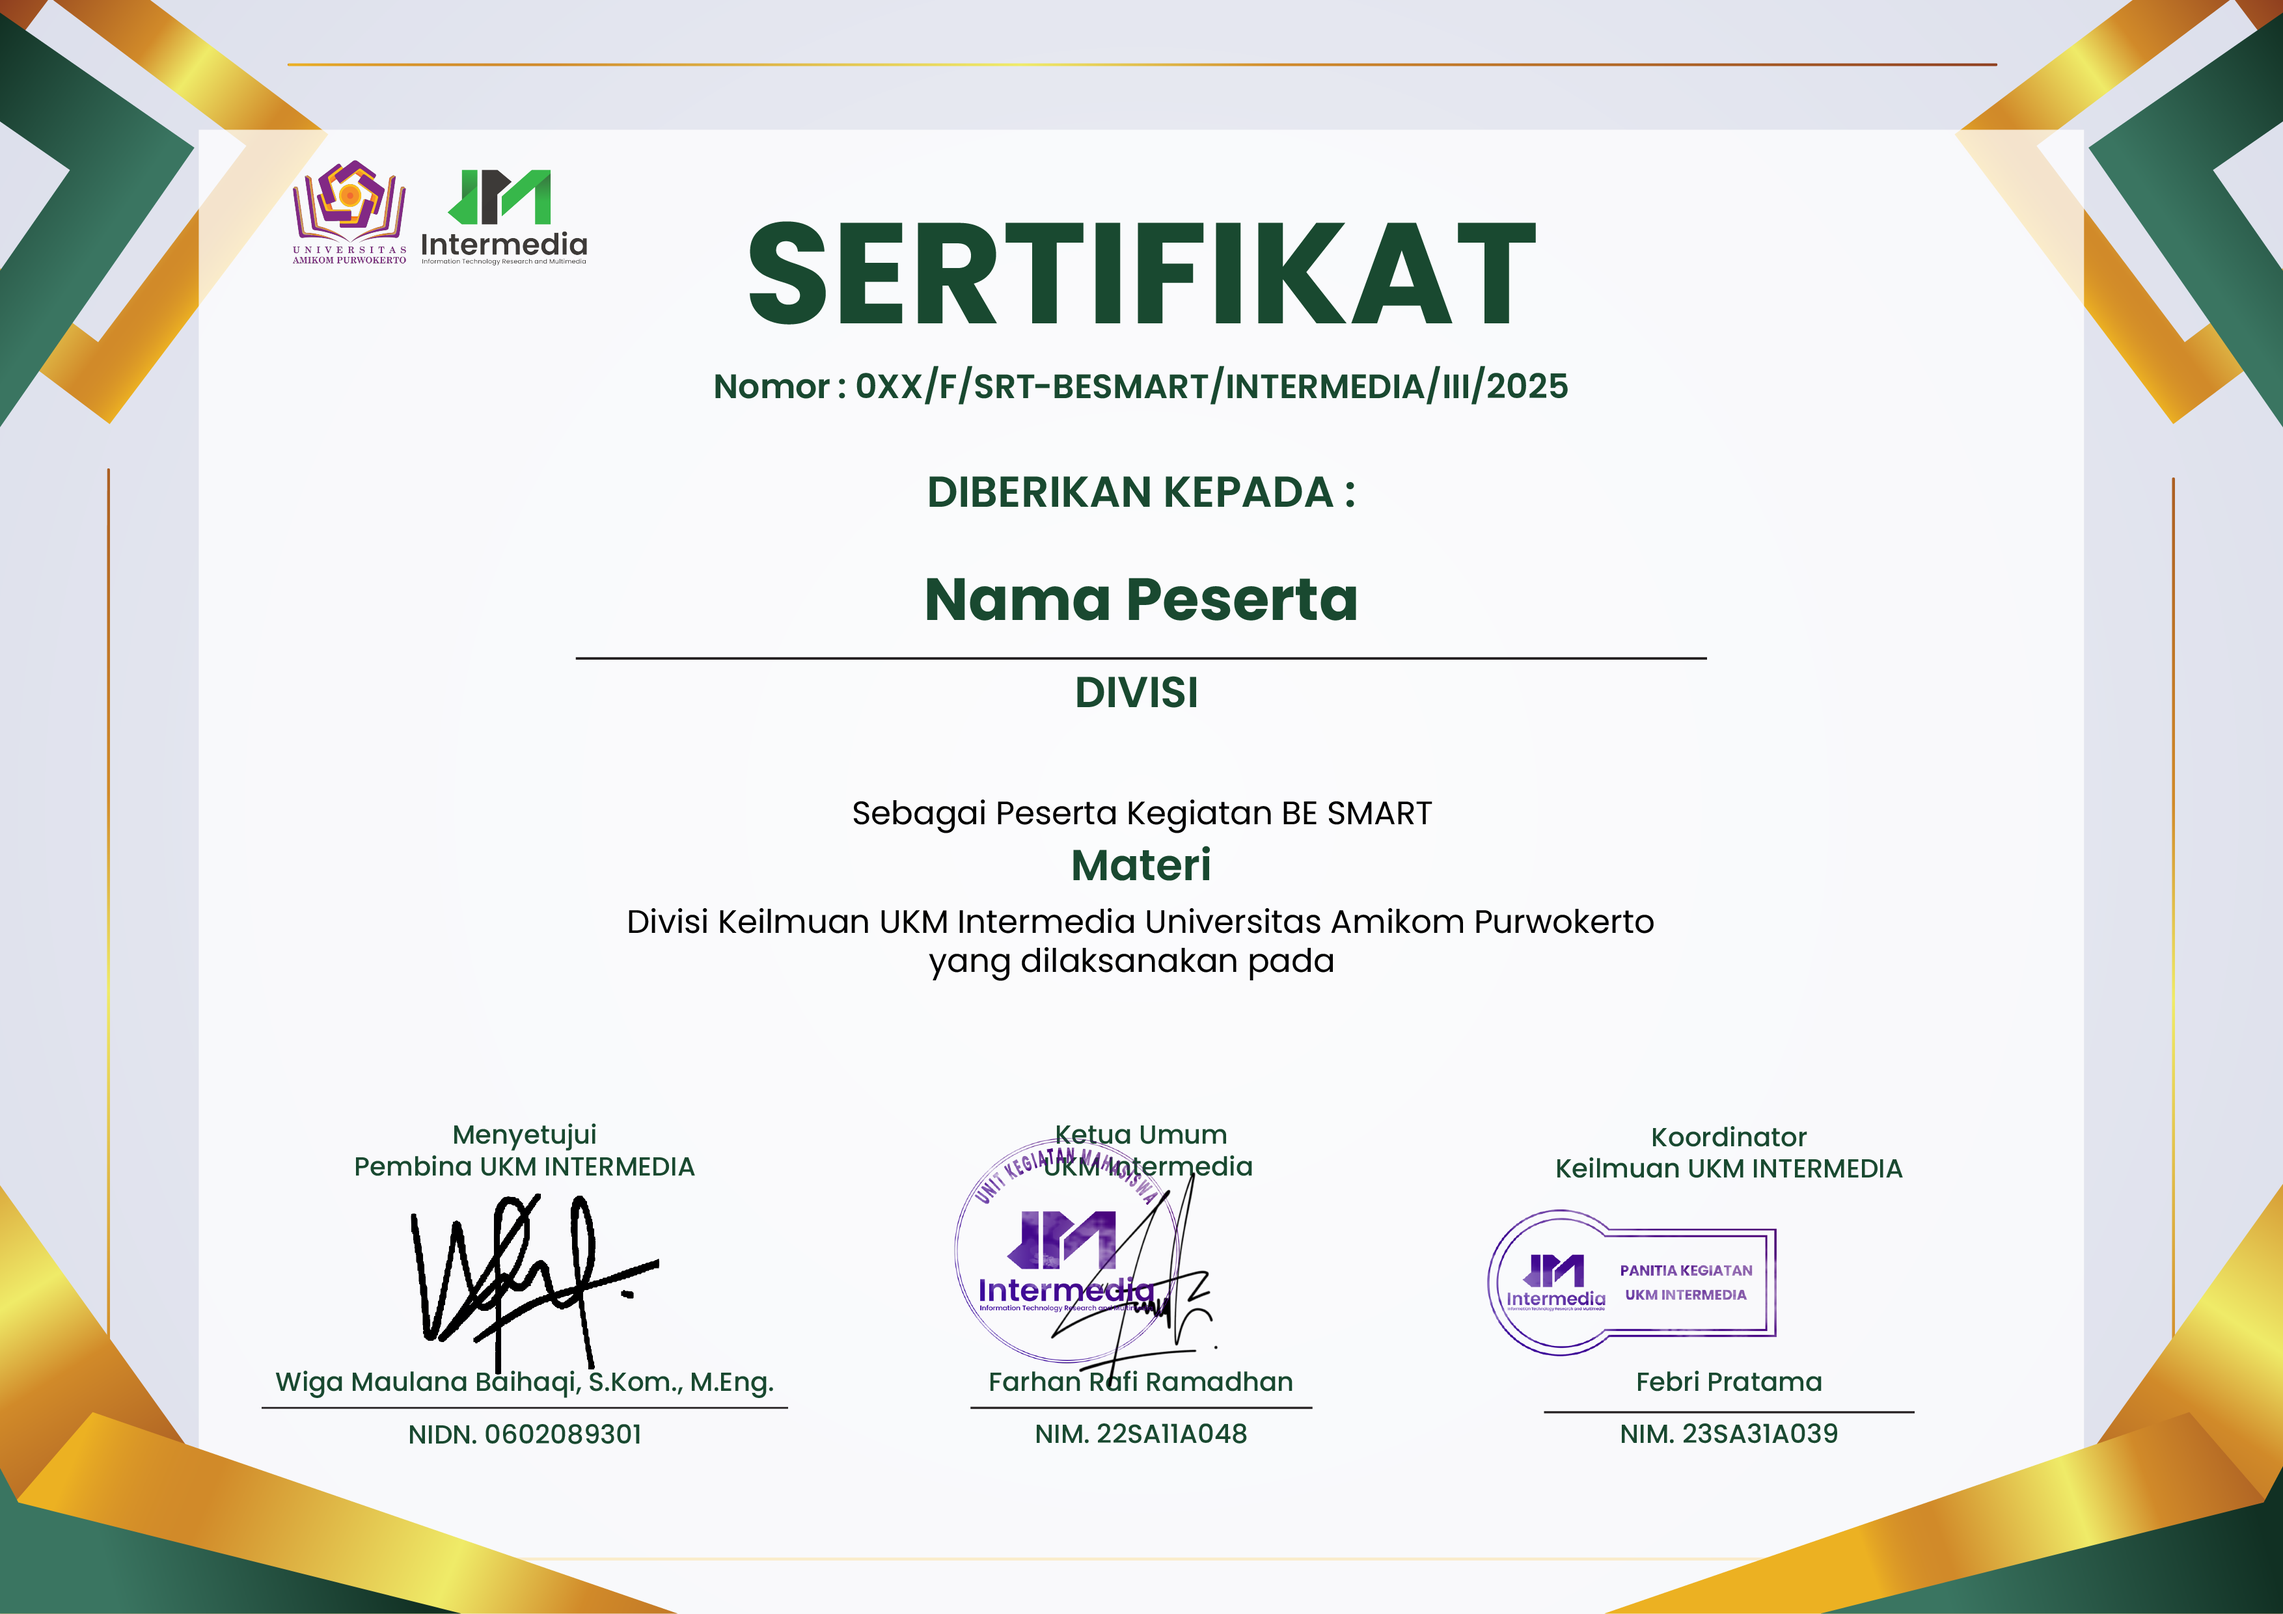
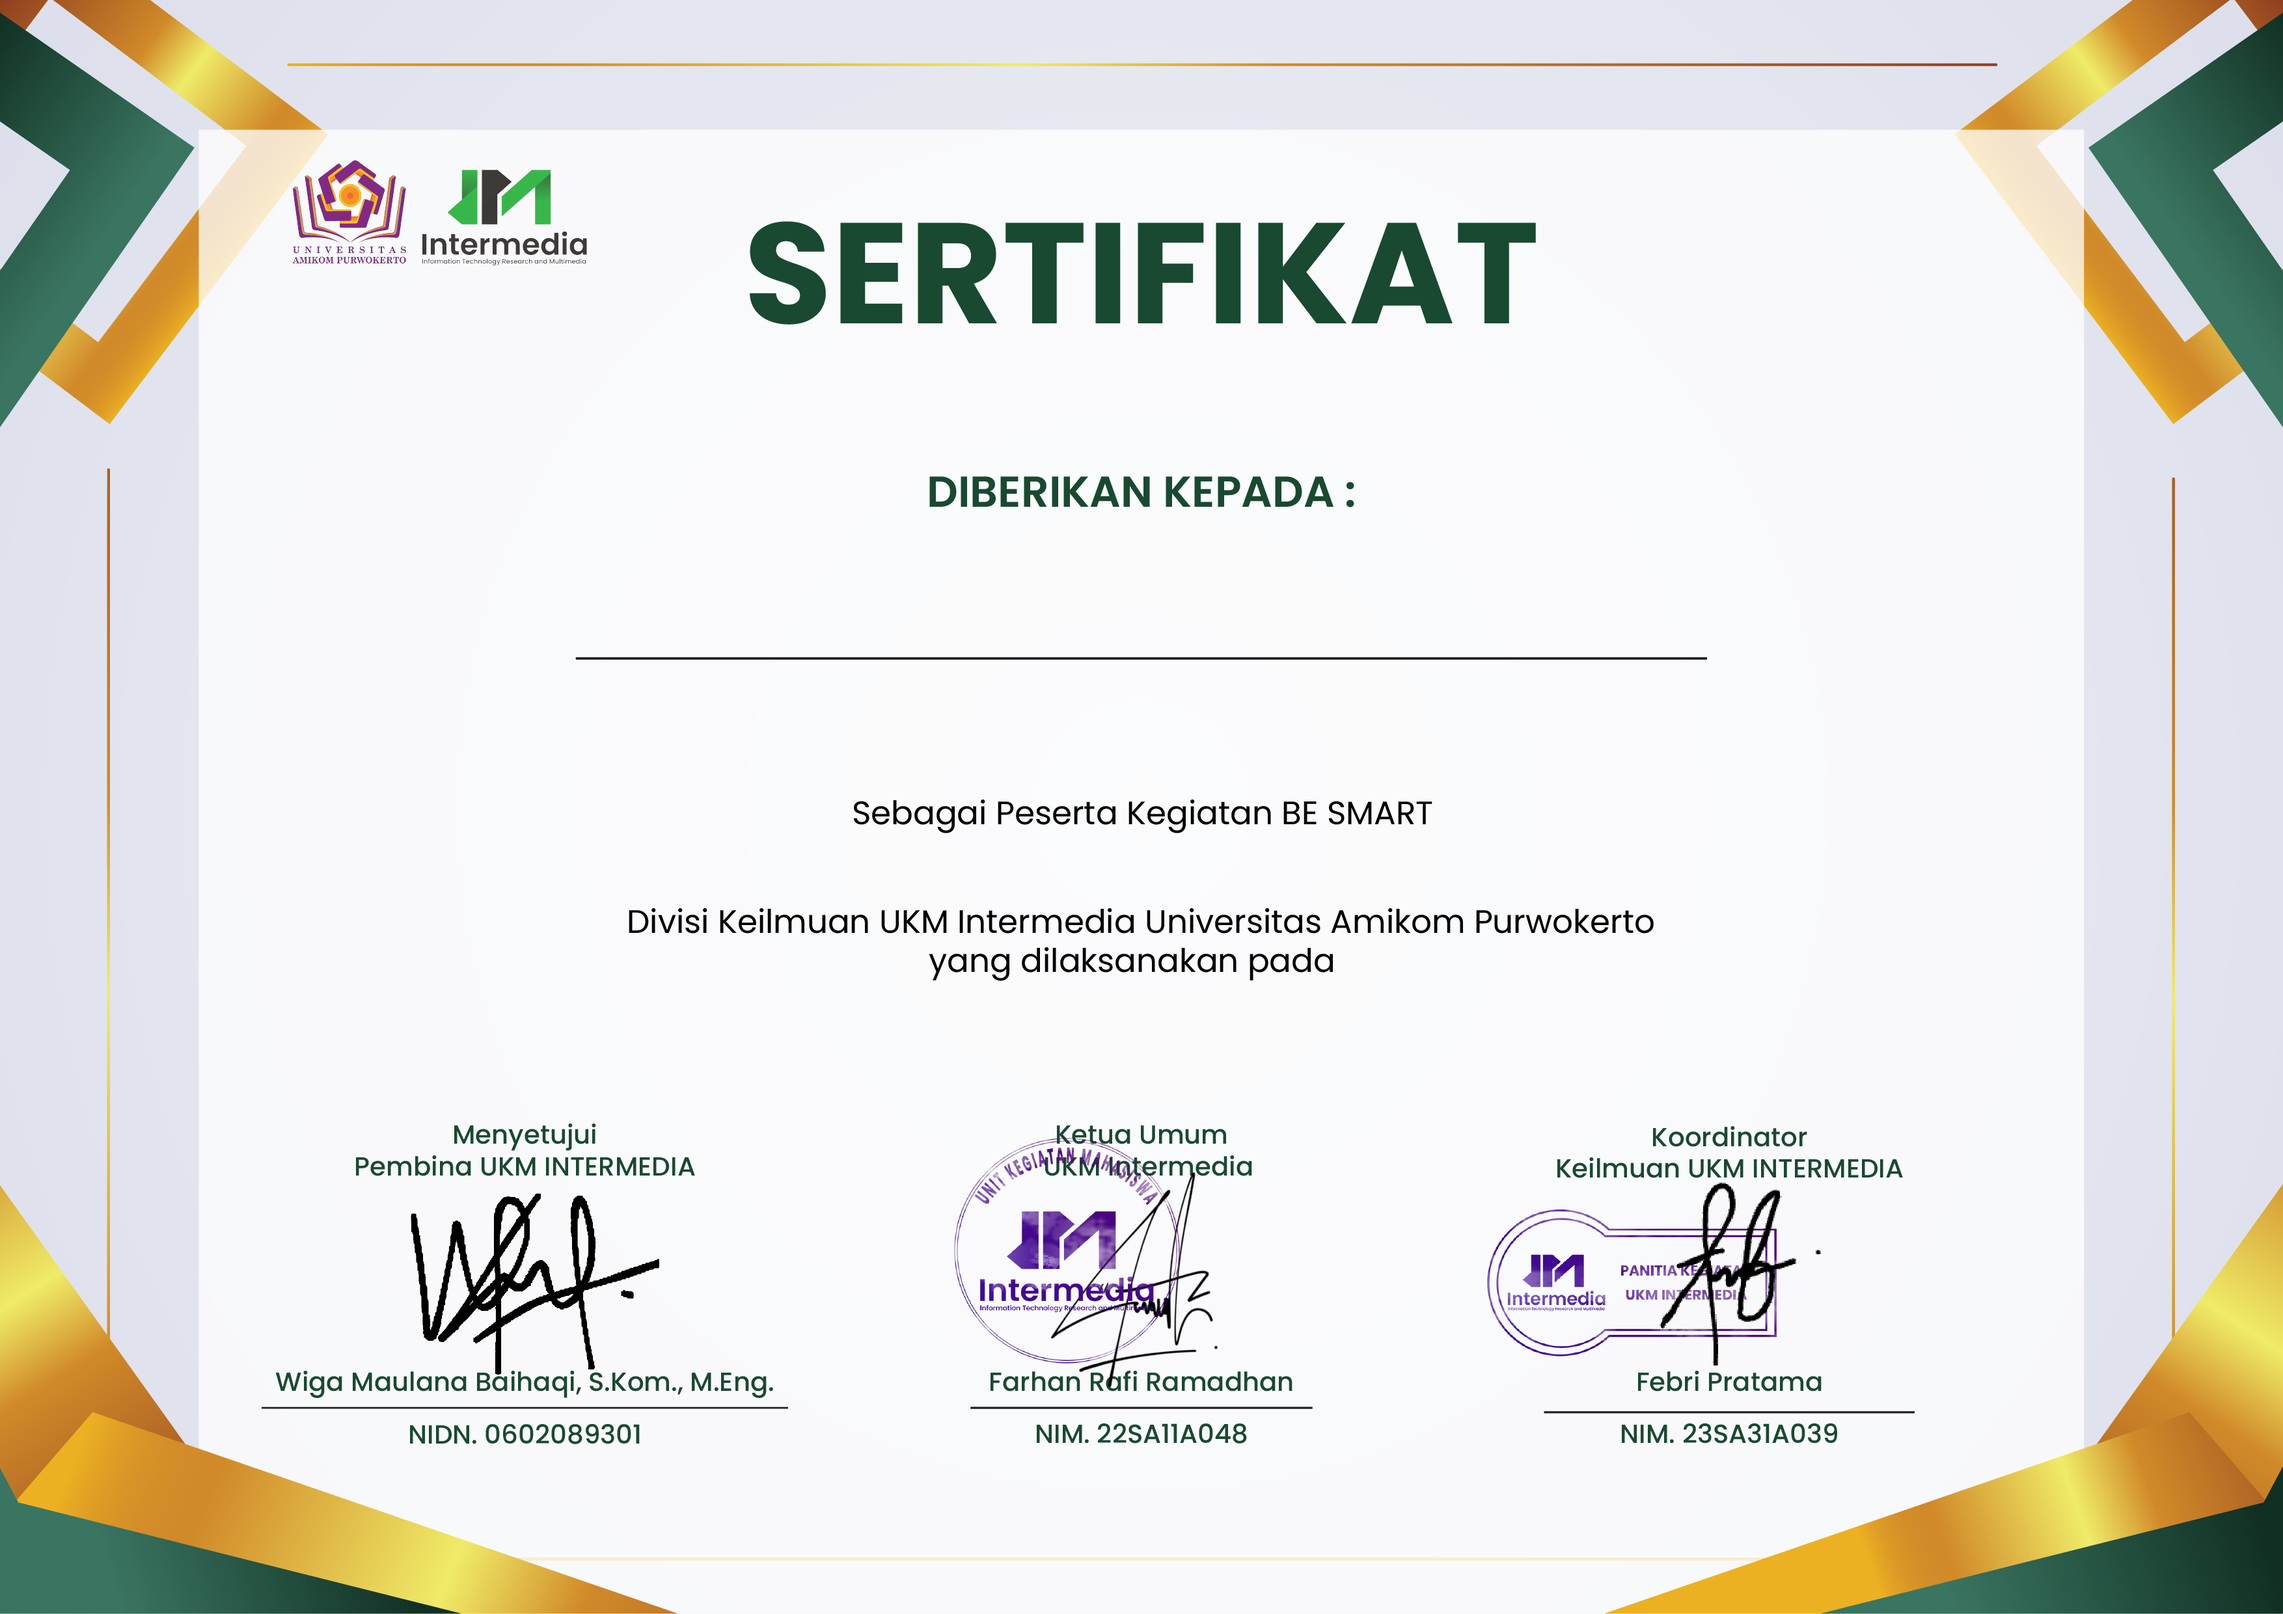
feat: update certificate template

diff --git a/app/Http/Controllers/CertificateController.php b/app/Http/Controllers/CertificateController.php
@@ -146,7 +146,7 @@ class CertificateController extends Controller
         $pdf->Cell($horizontalMargin, 3, '', 0, 0);
         $pdf->Cell($contentWidth, 3, Carbon::parse($event->occasion_date)->isoFormat('dddd, D MMMM YYYY'), 0, 1, 'C', true);
 
-        $pdf->Image(resource_path('images/signature-febri.png'), 213.11, 155.48, 25.23, 25.23);
+        // $pdf->Image(resource_path('images/signature-febri.png'), 213.11, 155.48, 25.23, 25.23);
 
         $pdf->AddPage();
 
@@ -178,7 +178,7 @@ class CertificateController extends Controller
         $pdf->Cell($startScoreBoxX, $scoreBoxHeight, '', 0, 0);
         $pdf->Cell($scoreBoxWidth, $scoreBoxHeight, $attendanceValues['submissionValue'], 0, 1, 'C', true);
 
-        $pdf->Image(resource_path('images/signature-febri.png'), 140.21, 160.78, 25.23, 25.23);
+        // $pdf->Image(resource_path('images/signature-febri.png'), 140.21, 160.78, 25.23, 25.23);
 
         return response($pdf->Output('multi-page-background.pdf', 'S'))
             ->header('Content-Type', 'application/pdf')
